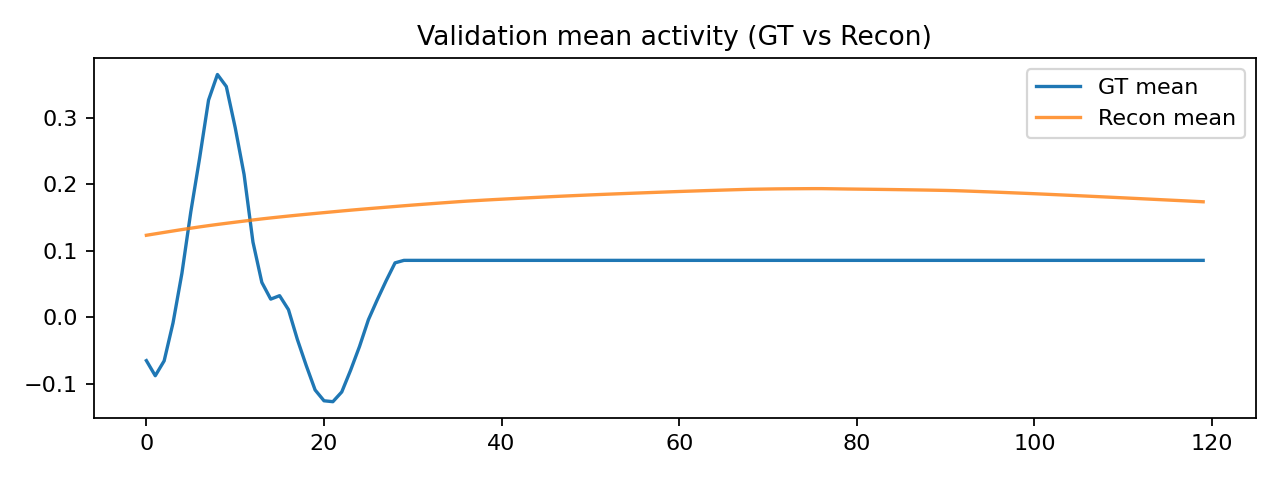
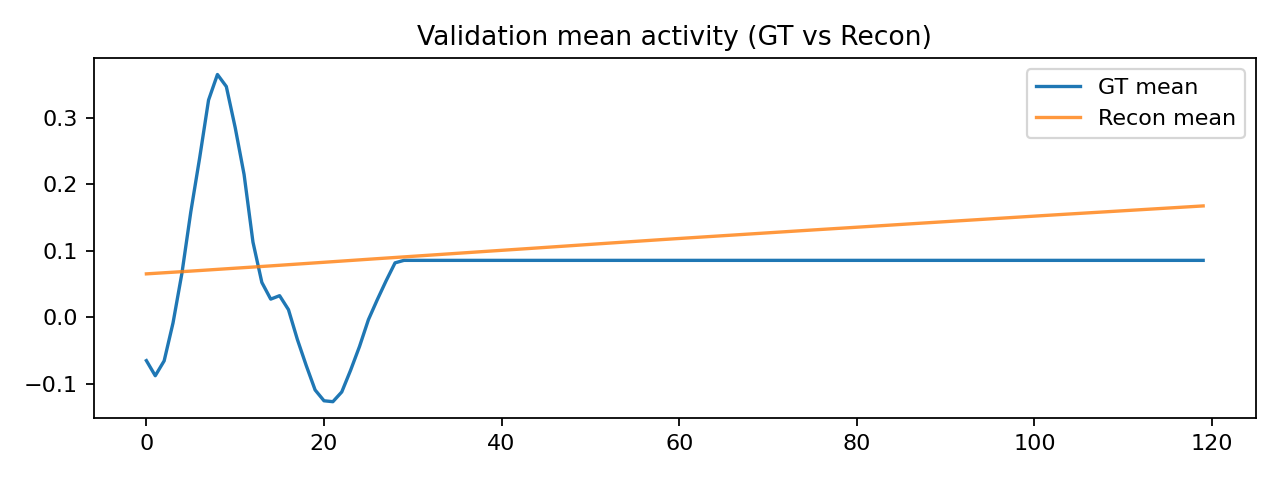
~0.5 R^2 with the addition of a local linearity constraint.

diff --git a/src/v5_neural_vae.py b/src/v5_neural_vae.py
@@ -586,14 +586,42 @@ class ODEVAE(nn.Module):
         return xhat, mu, logvar, z_traj, zdiff
     
 #___________________loss_________________#
-def vae_loss(xhat, x, mu, logvar, zdiff, beta=1.0, lambda_smooth=0.0):
+def compute_lle_loss(z_traj, k=8, max_points=256, temperature=0.1):
+    # soft LLE: reconstruct each point from neighbors using softmax weights
+    z_flat = z_traj.reshape(-1, z_traj.shape[-1])
+    n = z_flat.shape[0]
+    if n <= k:
+        return z_traj.new_tensor(0.0)
+    if n > max_points:
+        idx = torch.randperm(n, device=z_traj.device)[:max_points]
+        z_flat = z_flat[idx]
+        n = z_flat.shape[0]
+    dists = torch.cdist(z_flat, z_flat)
+    eye = torch.eye(n, device=z_traj.device, dtype=torch.bool)
+    dists = dists.masked_fill(eye, float("inf"))
+    knn_dist, knn_idx = torch.topk(dists, k=k, largest=False)
+    neigh = z_flat[knn_idx]
+    weights = torch.softmax(-knn_dist / max(temperature, 1e-6), dim=-1)
+    recon = (weights.unsqueeze(-1) * neigh).sum(dim=1)
+    return torch.mean((z_flat - recon) ** 2)
+
+def vae_loss(xhat, x, mu, logvar, zdiff, beta=1.0, lambda_smooth=0.0, transition_loss=None, lambda_transition=0.0, lle_loss=None, lambda_lle=0.0):
     # --- Safety clamp to prevent numerical overflow ---
     logvar = torch.clamp(logvar, min=-10.0, max=10.0)
 
     recon = torch.mean((xhat - x) ** 2)
     kl = -0.5 * torch.mean(1 + logvar - mu.pow(2) - logvar.exp())
     smooth = torch.mean(zdiff**2) if lambda_smooth > 0 else x.new_tensor(0.0)
-    return recon + beta*kl + lambda_smooth*smooth, recon, kl, smooth
+    if transition_loss is None or lambda_transition <= 0:
+        transition = x.new_tensor(0.0)
+    else:
+        transition = transition_loss
+    if lle_loss is None or lambda_lle <= 0:
+        lle = x.new_tensor(0.0)
+    else:
+        lle = lle_loss
+    total = recon + beta*kl + lambda_smooth*smooth + lambda_transition*transition + lambda_lle*lle
+    return total, recon, kl, smooth, transition, lle
 
 
 #_________________training_______________#
@@ -673,7 +701,7 @@ def train(args):
     for epoch in range(1, args.epochs+1):
         #_____ train 
         model.train()
-        tl, tr, tk, ts = 0.0, 0.0, 0.0, 0.0
+        tl, tr, tk, ts, tt, tll = 0.0, 0.0, 0.0, 0.0, 0.0, 0.0
         for xb in train_loader:
             xb = xb.to(device) # [B, L, N]
 
@@ -691,7 +719,45 @@ def train(args):
                 beta = args.beta * min(1.0, epoch /args.kl_warmup_epochs)
             else:
                 beta = args.beta
-            loss, rec,kl, sm = vae_loss(xhat, xb, mu, logvar, zdiff, beta=beta, lambda_smooth=args.lambda_smooth)
+            transition_loss = None
+            lambda_transition = getattr(args, "lambda_transition", 0.0)
+            if getattr(args, "lambda_transition_warmup_epochs", 0) > 0:
+                lambda_transition *= min(1.0, epoch / args.lambda_transition_warmup_epochs)
+            if lambda_transition > 0:
+                # match decoded transition dynamics without re-decoding z_pred
+                dx_hat = xhat[:, 1:, :] - xhat[:, :-1, :]
+                dx_true = xb[:, 1:, :] - xb[:, :-1, :]
+                if getattr(args, "transition_landmark_count", 0) > 0:
+                    trial_features = xb.mean(dim=1).detach().cpu().numpy()
+                    lm_idx = greedy_landmarks(
+                        trial_features,
+                        k=min(args.transition_landmark_count, xb.shape[0])
+                    )
+                    dx_hat = dx_hat[lm_idx]
+                    dx_true = dx_true[lm_idx]
+                transition_loss = torch.mean((dx_hat - dx_true) ** 2)
+            lle_loss = None
+            lambda_lle = getattr(args, "lambda_lle", 0.0)
+            if lambda_lle > 0:
+                lle_loss = compute_lle_loss(
+                    z_traj,
+                    k=getattr(args, "lle_k", 8),
+                    max_points=getattr(args, "lle_max_points", 256),
+                    temperature=getattr(args, "lle_temperature", 0.1),
+                )
+            loss, rec, kl, sm, trn, lle = vae_loss(
+                xhat,
+                xb,
+                mu,
+                logvar,
+                zdiff,
+                beta=beta,
+                lambda_smooth=args.lambda_smooth,
+                transition_loss=transition_loss,
+                lambda_transition=lambda_transition,
+                lle_loss=lle_loss,
+                lambda_lle=lambda_lle,
+            )
             
             # ---- NaN check ----
             if torch.isnan(loss):
@@ -702,9 +768,9 @@ def train(args):
             loss.backward()
             nn.utils.clip_grad_norm_(model.parameters(), max_norm=1.0)
             opt.step()
-            tl += loss.item(); tr += rec.item(); tk+= kl.item(); ts += sm.item()
+            tl += loss.item(); tr += rec.item(); tk+= kl.item(); ts += sm.item(); tt += trn.item(); tll += lle.item()
         nb = len(train_loader)
-        print(f"[{epoch:03d}] train loss {tl/nb:.5f} | recon { tr/nb:.5f} | kl {tk/nb:.5f} | smooth {ts/nb:.5f} | beta {beta:.3f}")
+        print(f"[{epoch:03d}] train loss {tl/nb:.5f} | recon { tr/nb:.5f} | kl {tk/nb:.5f} | smooth {ts/nb:.5f} | trans {tt/nb:.5f} | lle {tll/nb:.5f} | beta {beta:.3f}")
 
         if nan_flag:
             break
@@ -712,7 +778,7 @@ def train(args):
         # ______val
         model.eval()
         with torch.no_grad(): 
-            vl, vr, vk, vs, r2_total = 0.0, 0.0, 0.0, 0.0, 0.0
+            vl, vr, vk, vs, vt, vlle, r2_total = 0.0, 0.0, 0.0, 0.0, 0.0, 0.0, 0.0
             n_batches = 0
             for xb in val_loader:
                 # this is trial-wise baseline correction, getting rid of the first 5 frames
@@ -723,8 +789,45 @@ def train(args):
                     xb = xb - baseline
                 xb = xb.to(device)
                 xhat, mu, logvar, z_traj, zdiff = model(xb, tvec)
-                loss, rec, kl, sm = vae_loss(xhat, xb, mu, logvar, zdiff, beta=args.beta, lambda_smooth=args.lambda_smooth)
-                vl += loss.item(); vr += rec.item(); vk += kl.item(); vs += sm.item()
+                transition_loss = None
+                lambda_transition = getattr(args, "lambda_transition", 0.0)
+                if getattr(args, "lambda_transition_warmup_epochs", 0) > 0:
+                    lambda_transition *= min(1.0, epoch / args.lambda_transition_warmup_epochs)
+                if lambda_transition > 0:
+                    dx_hat = xhat[:, 1:, :] - xhat[:, :-1, :]
+                    dx_true = xb[:, 1:, :] - xb[:, :-1, :]
+                    if getattr(args, "transition_landmark_count", 0) > 0:
+                        trial_features = xb.mean(dim=1).detach().cpu().numpy()
+                        lm_idx = greedy_landmarks(
+                            trial_features,
+                            k=min(args.transition_landmark_count, xb.shape[0])
+                        )
+                        dx_hat = dx_hat[lm_idx]
+                        dx_true = dx_true[lm_idx]
+                    transition_loss = torch.mean((dx_hat - dx_true) ** 2)
+                lle_loss = None
+                lambda_lle = getattr(args, "lambda_lle", 0.0)
+                if lambda_lle > 0:
+                    lle_loss = compute_lle_loss(
+                        z_traj,
+                        k=getattr(args, "lle_k", 8),
+                        max_points=getattr(args, "lle_max_points", 256),
+                        temperature=getattr(args, "lle_temperature", 0.1),
+                    )
+                loss, rec, kl, sm, trn, lle = vae_loss(
+                    xhat,
+                    xb,
+                    mu,
+                    logvar,
+                    zdiff,
+                    beta=args.beta,
+                    lambda_smooth=args.lambda_smooth,
+                    transition_loss=transition_loss,
+                    lambda_transition=lambda_transition,
+                    lle_loss=lle_loss,
+                    lambda_lle=lambda_lle,
+                )
+                vl += loss.item(); vr += rec.item(); vk += kl.item(); vs += sm.item(); vt += trn.item(); vlle += lle.item()
 
                 # --- R² computation per batch ---
                 r2_batch = compute_r2(xb.cpu(), xhat.cpu())
@@ -734,7 +837,7 @@ def train(args):
 
             nbv = len(val_loader)
             mean_r2 = r2_total / max(1, n_batches)
-            print(f"      valid loss {vl/nbv:.5f} | recon {vr/nbv:.5f} | kl {vk/nbv:.5f} | smooth {vs/nbv:.5f} | R² {mean_r2:.4f}")
+            print(f"      valid loss {vl/nbv:.5f} | recon {vr/nbv:.5f} | kl {vk/nbv:.5f} | smooth {vs/nbv:.5f} | trans {vt/nbv:.5f} | lle {vlle/nbv:.5f} | R² {mean_r2:.4f}")
 
             if vl/nbv < best_val: 
                     best_val = vl/nbv
@@ -860,7 +963,8 @@ def train(args):
     "recon": vr / nbv,
     "kl": vk / nbv,
     "smooth": vs / nbv,
-    "r2": mean_r2
+    "r2": mean_r2,
+    "lle": vlle / nbv,
     }
     # --- Log run metadata to JSON file --- #
     run_metadata = {
@@ -873,6 +977,8 @@ def train(args):
         "recon": vr / nbv,
         "kl": vk / nbv,
         "smooth": vs / nbv,
+        "transition": vt / nbv,
+        "lle": vlle / nbv,
         "data_hash": data_hash,
     }
     }
